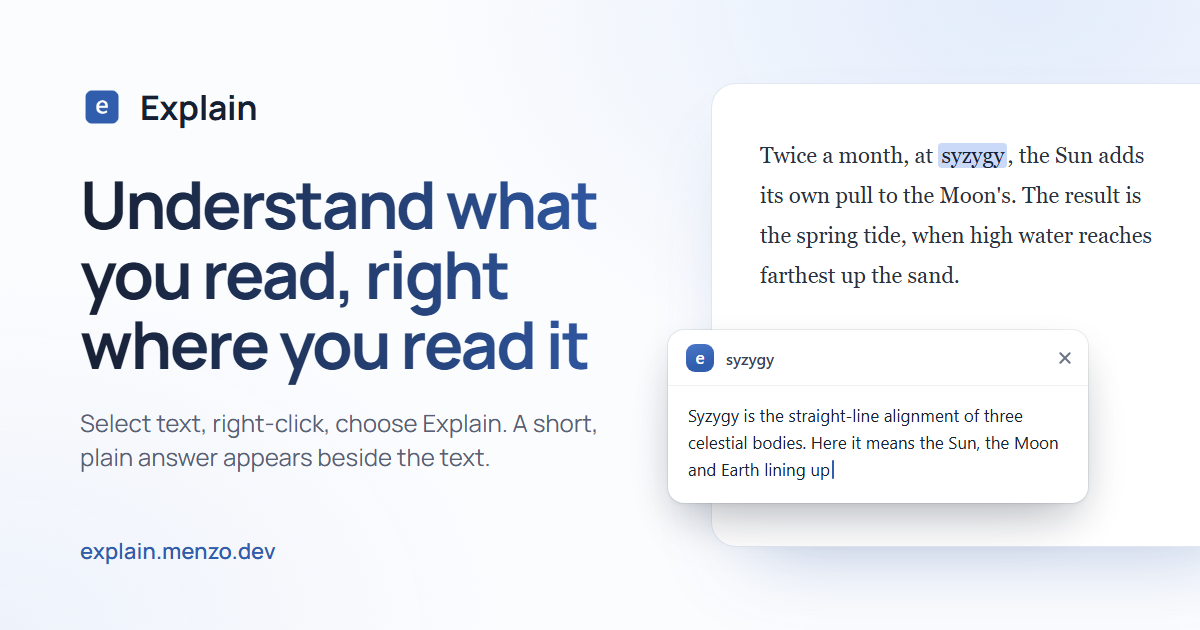
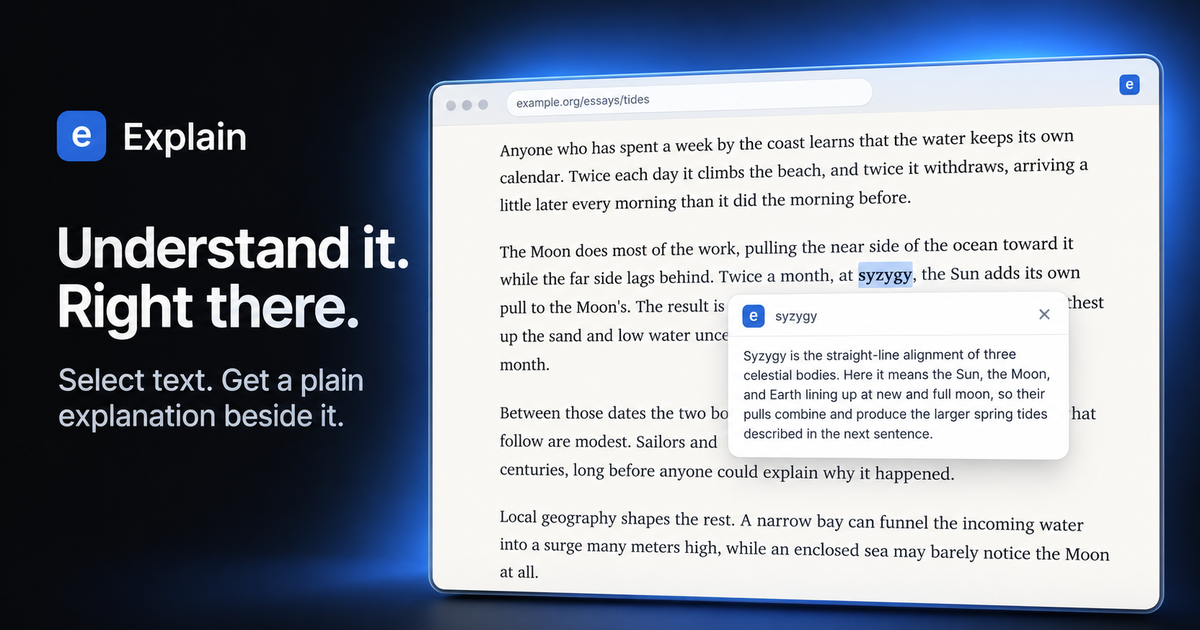
Use approved product cover for link previews

diff --git a/docs/index.html b/docs/index.html
@@ -16,14 +16,14 @@
 <meta property="og:title" content="Explain: plain explanations for what you read">
 <meta property="og:description" content="Select a word or passage, right-click, choose Explain. A short answer from Google Gemini appears beside the text, using your own free key.">
 <meta property="og:url" content="https://explain.menzo.dev/">
-<meta property="og:image" content="https://explain.menzo.dev/og.png">
+<meta property="og:image" content="https://explain.menzo.dev/og.png?v=20261023">
 <meta property="og:image:width" content="1200">
 <meta property="og:image:height" content="630">
-<meta property="og:image:alt" content="Explain: a card beside a selected word explains it in plain language">
+<meta property="og:image:alt" content="Explain showing a plain explanation beside a selected word in an article.">
 <meta name="twitter:card" content="summary_large_image">
 <meta name="twitter:title" content="Explain: plain explanations for what you read">
 <meta name="twitter:description" content="Select a word or passage, right-click, choose Explain. A short answer from Google Gemini appears beside the text, using your own free key.">
-<meta name="twitter:image" content="https://explain.menzo.dev/og.png">
+<meta name="twitter:image" content="https://explain.menzo.dev/og.png?v=20261023">
 <link rel="preconnect" href="https://fonts.googleapis.com">
 <link rel="preconnect" href="https://fonts.gstatic.com" crossorigin>
 <link rel="stylesheet" href="https://fonts.googleapis.com/css2?family=Manrope:wght@400;600;700&amp;display=swap">
